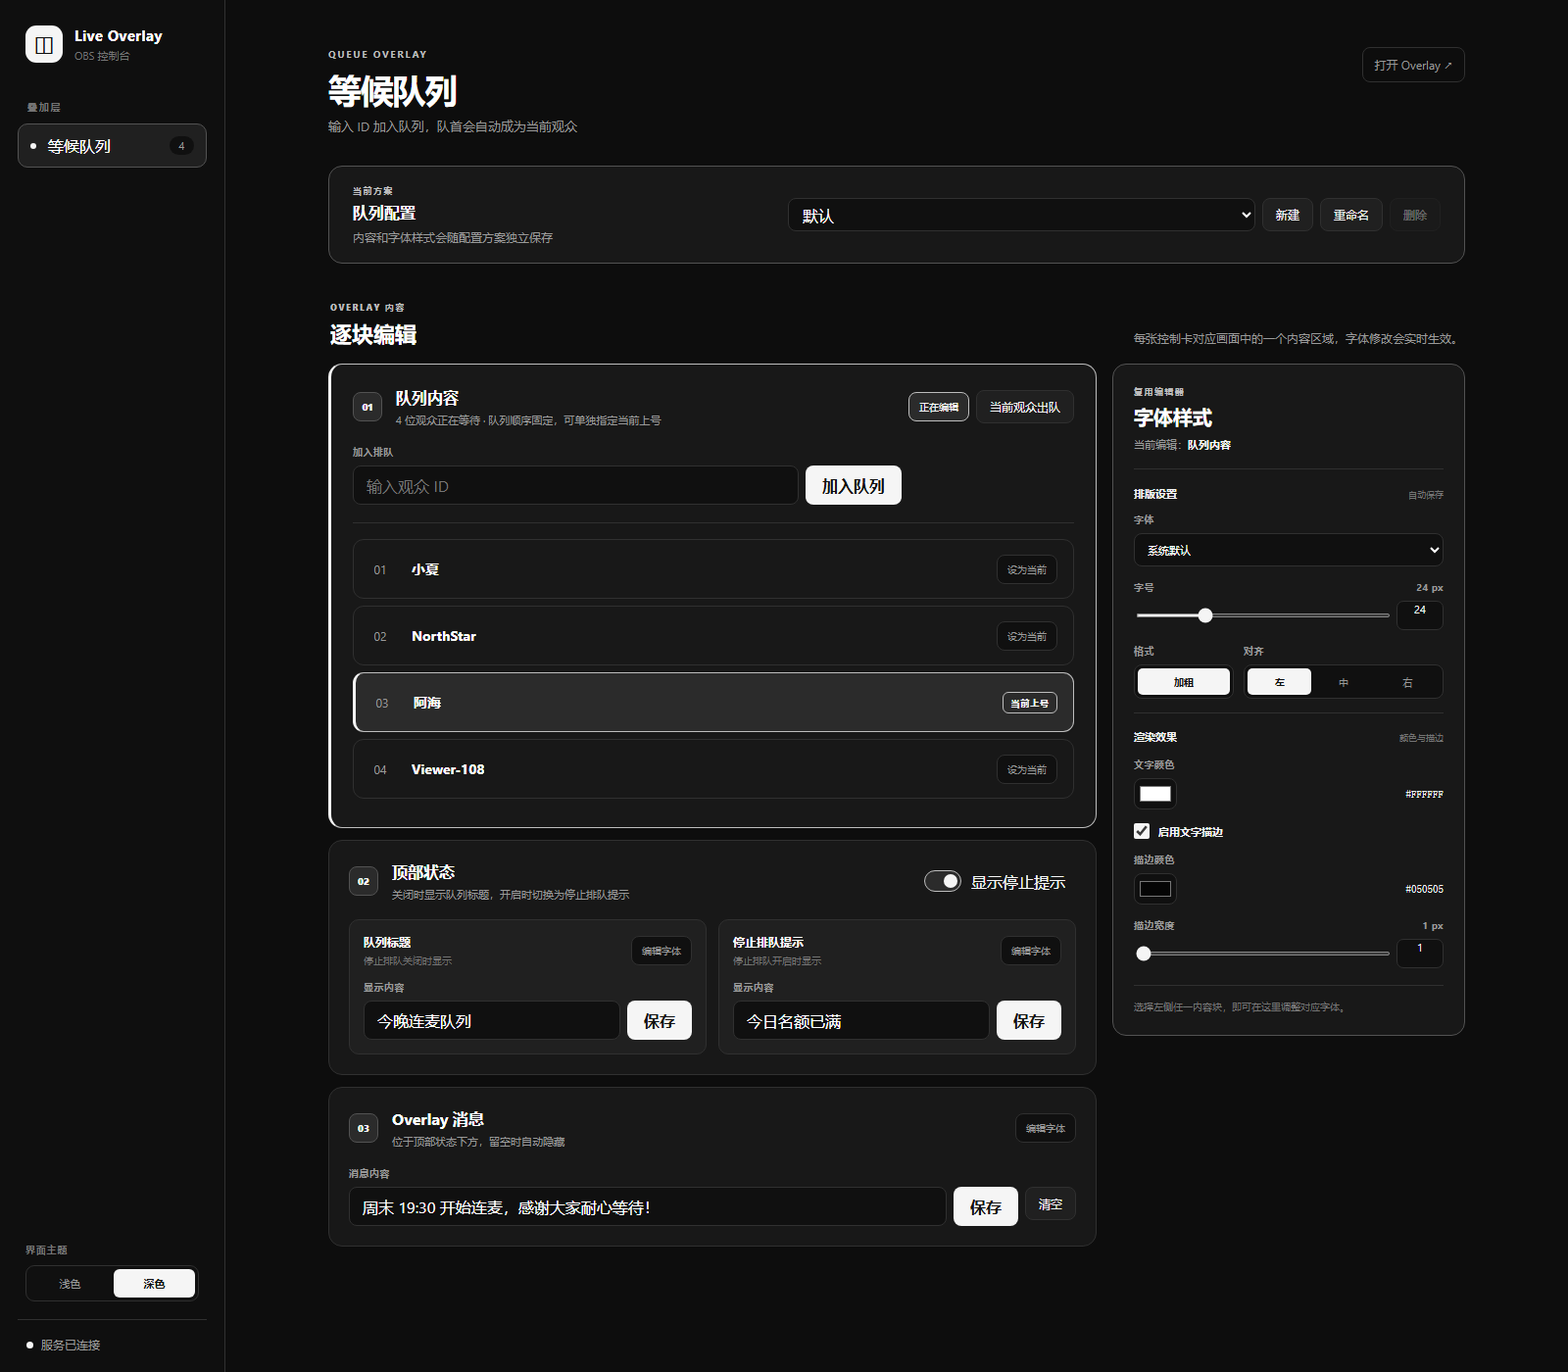
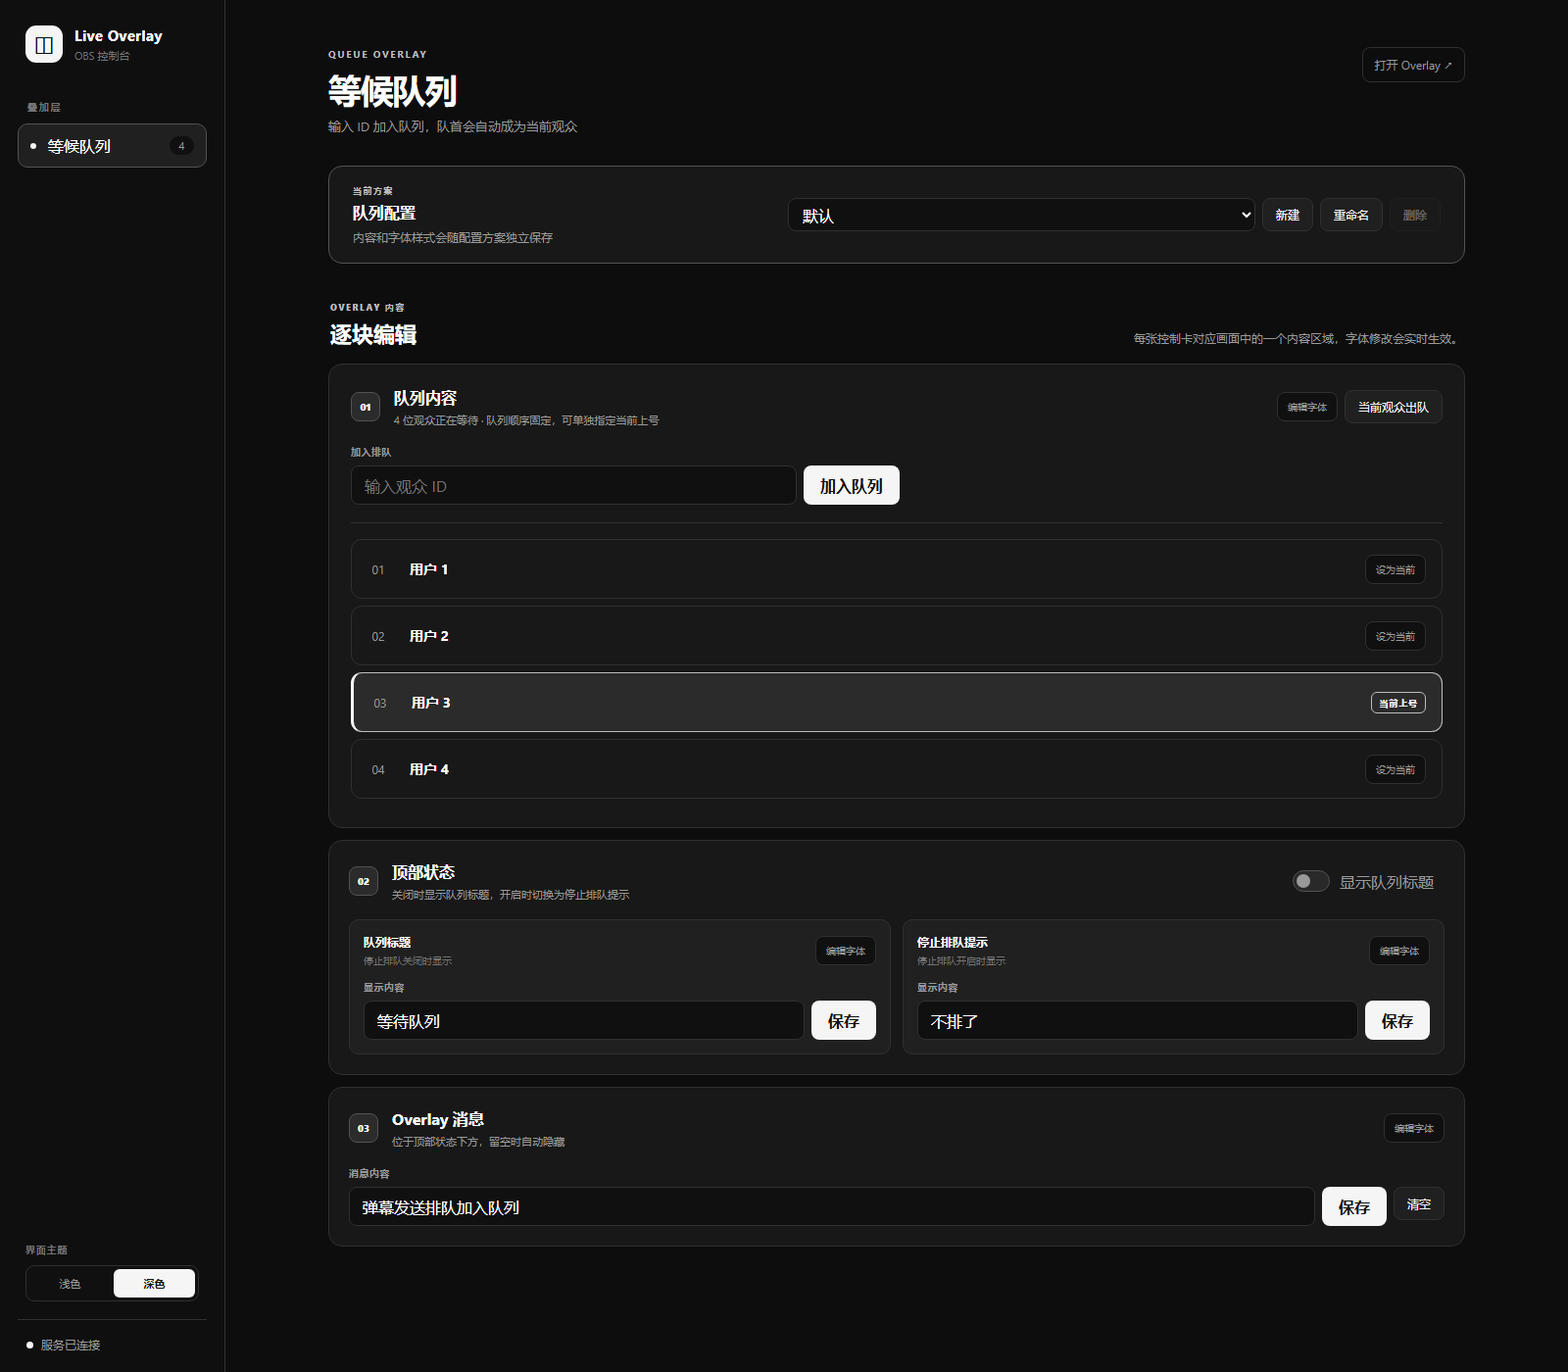
feat: 按需打开字体编辑器

diff --git a/public/control.html b/public/control.html
@@ -73,7 +73,7 @@
 
         <div class="editor-layout">
           <div class="content-stack">
-            <section class="content-card queue-card selected" data-content-section="queue" aria-labelledby="queue-heading">
+            <section class="content-card queue-card" aria-labelledby="queue-heading">
               <header class="content-card-header queue-card-header">
                 <span class="block-index">01</span>
                 <div>
@@ -81,7 +81,7 @@
                   <p><span id="queue-count">0</span> 位观众正在等待 · 队列顺序固定，可单独指定当前上号</p>
                 </div>
                 <div class="header-actions">
-                  <button class="section-select-button" type="button" data-select-section="queue" aria-pressed="true">正在编辑</button>
+                  <button class="section-select-button" type="button" data-select-section="queue" aria-haspopup="dialog">编辑字体</button>
                   <button id="dequeue-button" class="secondary-button" type="button">当前观众出队</button>
                 </div>
               </header>
@@ -104,7 +104,7 @@
               </div>
             </section>
 
-            <section class="content-card heading-card" data-content-sections="title stopped" aria-labelledby="heading-card-title">
+            <section class="content-card heading-card" aria-labelledby="heading-card-title">
               <header class="content-card-header">
                 <span class="block-index">02</span>
                 <div>
@@ -124,7 +124,7 @@
                       <strong>队列标题</strong>
                       <span>停止排队关闭时显示</span>
                     </div>
-                    <button class="section-select-button" type="button" data-select-section="title" aria-pressed="false">编辑字体</button>
+                    <button class="section-select-button" type="button" data-select-section="title" aria-haspopup="dialog">编辑字体</button>
                   </div>
                   <form class="content-form" data-overlay-content-form="title">
                     <label class="field-label" for="queue-title-input">显示内容</label>
@@ -141,7 +141,7 @@
                       <strong>停止排队提示</strong>
                       <span>停止排队开启时显示</span>
                     </div>
-                    <button class="section-select-button" type="button" data-select-section="stopped" aria-pressed="false">编辑字体</button>
+                    <button class="section-select-button" type="button" data-select-section="stopped" aria-haspopup="dialog">编辑字体</button>
                   </div>
                   <form class="content-form" data-overlay-content-form="stopped">
                     <label class="field-label" for="stopped-content-input">显示内容</label>
@@ -154,14 +154,14 @@
               </div>
             </section>
 
-            <section class="content-card" data-content-section="message" aria-labelledby="message-heading">
+            <section class="content-card" aria-labelledby="message-heading">
               <header class="content-card-header">
                 <span class="block-index">03</span>
                 <div>
                   <h2 id="message-heading">Overlay 消息</h2>
                   <p>位于顶部状态下方，留空时自动隐藏</p>
                 </div>
-                <button class="section-select-button" type="button" data-select-section="message" aria-pressed="false">编辑字体</button>
+                <button class="section-select-button" type="button" data-select-section="message" aria-haspopup="dialog">编辑字体</button>
               </header>
               <form id="message-form" class="content-form">
                 <label class="field-label" for="overlay-message-input">消息内容</label>
@@ -175,18 +175,23 @@
 
           </div>
 
-          <aside class="style-panel" aria-labelledby="style-panel-heading">
-            <div class="style-panel-header">
-              <span class="section-kicker">复用编辑器</span>
-              <h2 id="style-panel-heading">字体样式</h2>
-              <p>当前编辑：<strong id="selected-style-label">队列内容</strong></p>
-            </div>
-            <div id="typography-editor" class="typography-editor" data-typography-section="queue"></div>
-            <p class="style-panel-tip">选择左侧任一内容块，即可在这里调整对应字体。</p>
-          </aside>
         </div>
       </main>
     </div>
+    <dialog id="style-dialog" class="style-dialog" aria-labelledby="style-panel-heading">
+      <div class="style-panel">
+        <div class="style-panel-header">
+          <div>
+            <span class="section-kicker">字体编辑器</span>
+            <h2 id="style-panel-heading">字体样式</h2>
+            <p>当前编辑：<strong id="selected-style-label"></strong></p>
+          </div>
+          <button id="close-style-dialog" class="dialog-close-button" type="button" aria-label="关闭字体样式编辑器">×</button>
+        </div>
+        <div id="typography-editor" class="typography-editor" data-typography-section=""></div>
+        <p class="style-panel-tip">修改会实时应用到 Overlay，并自动保存到当前配置方案。</p>
+      </div>
+    </dialog>
     <div id="toast-region" class="toast-region" aria-live="assertive"></div>
     <script type="module" src="/control.js"></script>
   </body>

diff --git a/public/control.css b/public/control.css
@@ -94,18 +94,16 @@ button:focus-visible, a:focus-visible { outline: 2px solid var(--accent); outlin
 .workspace-heading { display: flex; align-items: flex-end; justify-content: space-between; gap: 30px; margin: 38px 2px 16px; }
 .workspace-heading h2 { font-size: 22px; }
 .workspace-heading p { max-width: 480px; margin: 0; color: var(--text-muted); text-align: right; font-size: 12px; line-height: 1.6; }
-.editor-layout { display: grid; grid-template-columns: minmax(0, 1fr) 360px; align-items: start; gap: 16px; }
+.editor-layout { min-width: 0; }
 .content-stack { display: grid; gap: 12px; min-width: 0; }
 .content-card { min-width: 0; padding: 20px; border: 1px solid var(--border); border-radius: 14px; background: var(--surface); }
 .content-card:hover { border-color: var(--border-strong); }
-.content-card.selected { border-color: var(--accent-muted); border-left: 3px solid var(--accent); }
 .content-card-header { display: grid; grid-template-columns: 34px minmax(0, 1fr) auto; align-items: center; gap: 10px; min-height: 42px; }
 .content-card-header p { margin: 5px 0 0; color: var(--text-muted); font-size: 11px; }
 .block-index { display: grid; place-items: center; width: 30px; height: 30px; color: var(--accent); font-size: 10px; font-weight: 800; border: 1px solid var(--border-strong); border-radius: 8px; background: var(--accent-soft); }
 .header-actions { display: flex; align-items: center; gap: 7px; }
 .section-select-button { height: 30px; padding: 0 10px; color: var(--text-muted); font-size: 10px; border: 1px solid var(--border); background: var(--surface-input); }
 .section-select-button:hover { color: var(--text-strong); border-color: var(--border-strong); background: var(--surface-hover); }
-.section-select-button[aria-pressed="true"] { color: var(--accent); border-color: var(--accent-muted); background: var(--accent-soft); }
 .content-form { margin-top: 18px; }
 .heading-settings { display: grid; grid-template-columns: repeat(2, minmax(0, 1fr)); gap: 12px; margin-top: 18px; }
 .heading-setting { min-width: 0; padding: 14px; border: 1px solid var(--border); border-radius: 10px; background: var(--surface-raised); }
@@ -117,11 +115,15 @@ button:focus-visible, a:focus-visible { outline: 2px solid var(--accent); outlin
 .field-label, .control-field > span:first-child, .control-group > span { display: block; margin-bottom: 7px; color: var(--text-muted); font-size: 10px; font-weight: 700; letter-spacing: .04em; }
 .input-actions { display: flex; gap: 7px; }
 .input-actions input { flex: 1; }
-.style-panel { position: sticky; top: 24px; padding: 21px; border: 1px solid var(--border-strong); border-radius: 14px; background: var(--surface); }
-.style-panel-header { padding-bottom: 17px; border-bottom: 1px solid var(--border); }
+.style-dialog { width: min(400px, calc(100vw - 32px)); max-height: calc(100vh - 40px); margin: auto; padding: 0; overflow-y: auto; color: var(--text); border: 1px solid var(--border-strong); border-radius: 14px; background: var(--surface); }
+.style-dialog::backdrop { background: rgba(0, 0, 0, .68); }
+.style-panel { padding: 21px; }
+.style-panel-header { display: flex; align-items: flex-start; justify-content: space-between; gap: 20px; padding-bottom: 17px; border-bottom: 1px solid var(--border); }
 .style-panel-header h2 { font-size: 20px; }
 .style-panel-header p { margin: 8px 0 0; color: var(--text-muted); font-size: 11px; }
 .style-panel-header p strong { color: var(--accent); }
+.dialog-close-button { display: grid; place-items: center; width: 31px; height: 31px; color: var(--text-muted); font-size: 22px; line-height: 1; border: 1px solid var(--border); background: var(--surface-input); }
+.dialog-close-button:hover { color: var(--text-strong); border-color: var(--border-strong); background: var(--surface-hover); }
 .style-panel .typography-editor { margin-top: 17px; }
 .style-panel-tip { margin: 17px 0 0; padding-top: 14px; color: var(--text-subtle); font-size: 10px; line-height: 1.5; border-top: 1px solid var(--border); }
 .typography-heading { display: flex; align-items: center; justify-content: space-between; margin-bottom: 12px; }
@@ -193,11 +195,6 @@ button:disabled { cursor: not-allowed; opacity: .36; }
 .toast-region { position: fixed; right: 24px; bottom: 22px; display: grid; gap: 8px; z-index: 10; }
 .toast { padding: 11px 14px; color: var(--inverse-text); font-size: 12px; border: 1px solid var(--border-strong); border-radius: 9px; background: var(--inverse); }
 .sr-only { position: absolute; width: 1px; height: 1px; padding: 0; margin: -1px; overflow: hidden; clip: rect(0,0,0,0); white-space: nowrap; border: 0; }
-@media (max-width: 1050px) {
-  .editor-layout { grid-template-columns: 1fr; }
-  .style-panel { position: static; }
-  .type-controls { grid-template-columns: repeat(2, minmax(0, 1fr)); }
-}
 @media (max-width: 850px) {
   .app-shell { grid-template-columns: 190px 1fr; }
   .sidebar { width: 190px; }

diff --git a/public/control.js b/public/control.js
@@ -22,7 +22,8 @@ const elements = {
   toasts: document.querySelector("#toast-region"),
   typographyEditor: document.querySelector("#typography-editor"),
   typographySectionLabel: document.querySelector("#selected-style-label"),
-  contentSections: [...document.querySelectorAll("[data-content-section]")],
+  styleDialog: document.querySelector("#style-dialog"),
+  closeStyleDialog: document.querySelector("#close-style-dialog"),
   sectionSelectors: [...document.querySelectorAll("[data-select-section]")],
   themeOptions: [...document.querySelectorAll("[data-theme-option]")],
 };
@@ -59,7 +60,7 @@ const typographySectionLabels = {
   stopped: "停止排队提示",
 };
 let typographyTimer;
-let selectedTypographySection = "queue";
+let selectedTypographySection = null;
 
 let state = {
   items: [],
@@ -215,39 +216,32 @@ function initializeTypographyEditor() {
   });
 
   for (const selector of elements.sectionSelectors) {
-    selector.addEventListener("click", () => selectTypographySection(selector.dataset.selectSection));
+    selector.addEventListener("click", () => openTypographyEditor(selector.dataset.selectSection));
   }
-  for (const section of elements.contentSections) {
-    section.addEventListener("click", (event) => {
-      if (event.target.closest("button, input, select, form")) return;
-      selectTypographySection(section.dataset.contentSection);
-    });
-  }
-  selectTypographySection(selectedTypographySection);
+  elements.closeStyleDialog.addEventListener("click", () => elements.styleDialog.close());
+  elements.styleDialog.addEventListener("click", (event) => {
+    if (event.target !== elements.styleDialog) return;
+    const bounds = elements.styleDialog.getBoundingClientRect();
+    const inside = event.clientX >= bounds.left && event.clientX <= bounds.right
+      && event.clientY >= bounds.top && event.clientY <= bounds.bottom;
+    if (!inside) elements.styleDialog.close();
+  });
 }
 
-function selectTypographySection(section) {
+function openTypographyEditor(section) {
   if (!defaultTypography[section]) return;
   clearTimeout(typographyTimer);
   selectedTypographySection = section;
   elements.typographyEditor.dataset.typographySection = section;
   elements.typographySectionLabel.textContent = typographySectionLabels[section];
-  for (const card of elements.contentSections) {
-    const cardSections = (card.dataset.contentSections ?? card.dataset.contentSection ?? "").split(" ");
-    card.classList.toggle("selected", cardSections.includes(section));
-  }
-  for (const selector of elements.sectionSelectors) {
-    const selected = selector.dataset.selectSection === section;
-    selector.setAttribute("aria-pressed", String(selected));
-    selector.textContent = selected ? "正在编辑" : "编辑字体";
-  }
   setTypographySaveState(elements.typographyEditor, "idle");
   syncTypographyEditor();
+  if (!elements.styleDialog.open) elements.styleDialog.showModal();
 }
 
 function syncTypographyEditor() {
   const editor = elements.typographyEditor;
-  if (!editor.querySelector("[data-font-family]")) return;
+  if (!selectedTypographySection || !editor.querySelector("[data-font-family]")) return;
   const style = { ...defaultTypography[selectedTypographySection], ...state.typography?.[selectedTypographySection] };
   editor.querySelector("[data-font-family]").value = style.fontFamily;
   editor.querySelector("[data-font-size]").value = String(style.fontSize);

diff --git a/test/server.test.ts b/test/server.test.ts
@@ -38,10 +38,12 @@ describe("Overlay Service", () => {
     const controlHtml = await control.text();
     assert.match(controlHtml, /等候队列/);
     assert.equal(controlHtml.match(/data-typography-section=/g)?.length, 1);
-    assert.match(controlHtml, /data-content-section="queue"/);
-    assert.match(controlHtml, /data-content-sections="title stopped"/);
-    assert.match(controlHtml, /data-content-section="message"/);
+    assert.doesNotMatch(controlHtml, /data-content-sections?=/);
     assert.equal(controlHtml.match(/class="content-card(?:\s[^"]*)?"/g)?.length, 3);
+    assert.match(controlHtml, /<dialog id="style-dialog"/);
+    assert.equal(controlHtml.match(/data-select-section=/g)?.length, 4);
+    assert.equal(controlHtml.match(/aria-haspopup="dialog"/g)?.length, 4);
+    assert.doesNotMatch(controlHtml, /content-card[^"\n]*selected|正在编辑/);
     assert.match(controlHtml, /data-overlay-content-form="title"/);
     assert.match(controlHtml, /data-overlay-content-form="stopped"/);
     assert.match(controlHtml, /关闭时显示队列标题，开启时切换为停止排队提示/);
@@ -69,6 +71,9 @@ describe("Overlay Service", () => {
     assert.match(controlScript, /data-outline-width/);
     assert.doesNotMatch(controlScript, /data-format="italic"|style\.italic/);
     assert.match(controlScript, /obs-live-overlay:control-theme/);
+    assert.match(controlScript, /openTypographyEditor\(selector\.dataset\.selectSection\)/);
+    assert.match(controlScript, /styleDialog\.showModal\(\)/);
+    assert.doesNotMatch(controlScript, /contentSections|selectTypographySection|classList\.toggle\("selected"/);
     assert.match(controlScript, /\/api\/overlays\/queue\/current/);
     assert.match(controlScript, /\/api\/overlays\/queue\/content/);
     const controlStyles = await controlCss.text();

diff --git a/test/release-workflow.test.ts b/test/release-workflow.test.ts
@@ -11,4 +11,16 @@ describe("Release workflow", () => {
     assert.match(workflow, /npm publish/);
     assert.doesNotMatch(workflow, /NODE_AUTH_TOKEN|NPM_TOKEN/);
   });
+
+  it("记录每次发布必须执行的截图与清理规则", async () => {
+    const releaseRules = await readFile("RELEASE.md", "utf8");
+    assert.match(releaseRules, /docs\/images\/control-console\.png/);
+    assert.match(releaseRules, /docs\/images\/queue-overlay\.png/);
+    assert.match(releaseRules, /用户 1/);
+    assert.match(releaseRules, /等待队列/);
+    assert.match(releaseRules, /弹幕发送排队加入队列/);
+    assert.match(releaseRules, /Node\.js 进程/);
+    assert.match(releaseRules, /监听端口/);
+    assert.match(releaseRules, /npm run verify/);
+  });
 });

diff --git a/RELEASE.md b/RELEASE.md
@@ -1,0 +1,48 @@
+# Release 规则
+
+本文档是 OBS Live Overlay 的发布依据。每次正式版或预发布版都必须完整执行以下流程，不得复用旧版本截图或跳过发布后的验证。
+
+## 1. 发布准备
+
+1. 确认目标分支与远端同步，工作区中没有与本次发布无关的改动。
+2. 将 `package.json` 与 `package-lock.json` 的版本同步更新为目标版本。
+3. 完成功能修改，并为新增或调整的行为补充自动化测试。
+4. 运行 `npm run verify`，确保类型检查、测试与构建全部通过。
+5. 测试结束后关闭本项目启动的所有 Node.js 进程，并检查相关监听端口已经释放。
+
+## 2. 发布截图
+
+每次发布必须使用目标版本构建出的当前界面，重新生成并人工检查以下 README 截图：
+
+- `docs/images/control-console.png`
+- `docs/images/queue-overlay.png`
+
+截图使用独立的临时数据文件和无头 Chrome，禁止读取或覆盖用户的真实 Profile 数据。截图中的演示状态固定遵循以下规则：
+
+- 队列用户 ID 使用“用户 + 空格 + 数字”的中性编号，例如“用户 1”“用户 2”“用户 3”“用户 4”；不得使用昵称、英文名或其他虚构身份。
+- Overlay 标题使用“等待队列”。
+- 标题下方的副标题使用“弹幕发送排队加入队列”。
+- 队列中至少展示 4 位用户，并明确展示其中一位“当前上号”，以覆盖主要队列状态。
+- 控制台截图应展示队列、顶部状态、Overlay 消息和字体编辑入口；Overlay 截图应完整展示标题、副标题、队列顺序与当前上号状态。
+- 截图完成后关闭预览服务和无头浏览器，确认没有本项目 Node.js 进程或监听端口残留，并删除临时截图数据。
+
+## 3. 发布前检查
+
+1. 人工检查两张新截图，确认文字没有截断、界面没有异常，并且内容符合上一节规范。
+2. 再次运行 `npm run verify`。
+3. 运行 `npm pack --dry-run`，确认发布包只包含预期文件且版本正确。
+4. 检查最终差异，确认版本号、代码、测试、文档和两张截图属于同一次发布。
+
+## 4. 提交与发布
+
+1. 将本次发布改动提交到目标分支并推送。
+2. 创建与包版本完全一致的标签，格式为 `vX.Y.Z`；预发布版本使用合法的 SemVer 后缀。
+3. 推送标签，触发 `.github/workflows/release.yml`。
+4. 等待 Release 工作流成功完成。工作流会验证标签与包版本、运行完整校验、生成带校验和的发布包、创建 GitHub Release，并通过 npm Trusted Publishing 发布包。
+
+## 5. 发布后验证
+
+1. 确认 GitHub Release 已生成，发布包和 SHA-256 文件均可下载。
+2. 确认 npm 上的版本与标签一致。
+3. 检查默认安装命令可以取得新版本，并验证 `obs-live-overlay --version` 输出正确。
+4. 再次确认本地没有为测试或截图启动的 Node.js 进程和监听端口。

diff --git a/AGENTS.md b/AGENTS.md
@@ -4,4 +4,5 @@
 - 面向用户的界面文案默认使用中文，除非需求文档明确指定其他语言。
 - 每次测试结束后必须关闭本项目启动的 Node.js 进程，不得让测试或开发服务残留在后台；结束前检查相关监听端口，确认进程已经退出。
 - 每次 Release 前必须使用当前版本界面重新截取并更新 README 引用的控制台与 Overlay 截图：`docs/images/control-console.png`、`docs/images/queue-overlay.png`；截图需展示本次发布后的实际界面和主要功能状态。
+- 每次 Release 必须遵循仓库根目录 `RELEASE.md` 中的发布规则、截图数据规范与检查清单。
 - Agent Harness 使用 Git、GitHub CLI（`gh`）等工具时，如遇到沙箱权限限制，必须向用户申请提权并获得授权后再继续执行。

diff --git a/README.md b/README.md
@@ -80,4 +80,4 @@ npm uninstall --global @leejkee/obs-live-overlay
 
 ## 开发文档
 
-项目架构与实现说明见 [设计文档](docs/design.md)。
+项目架构与实现说明见 [设计文档](docs/design.md)，版本发布流程见 [Release 规则](RELEASE.md)。
